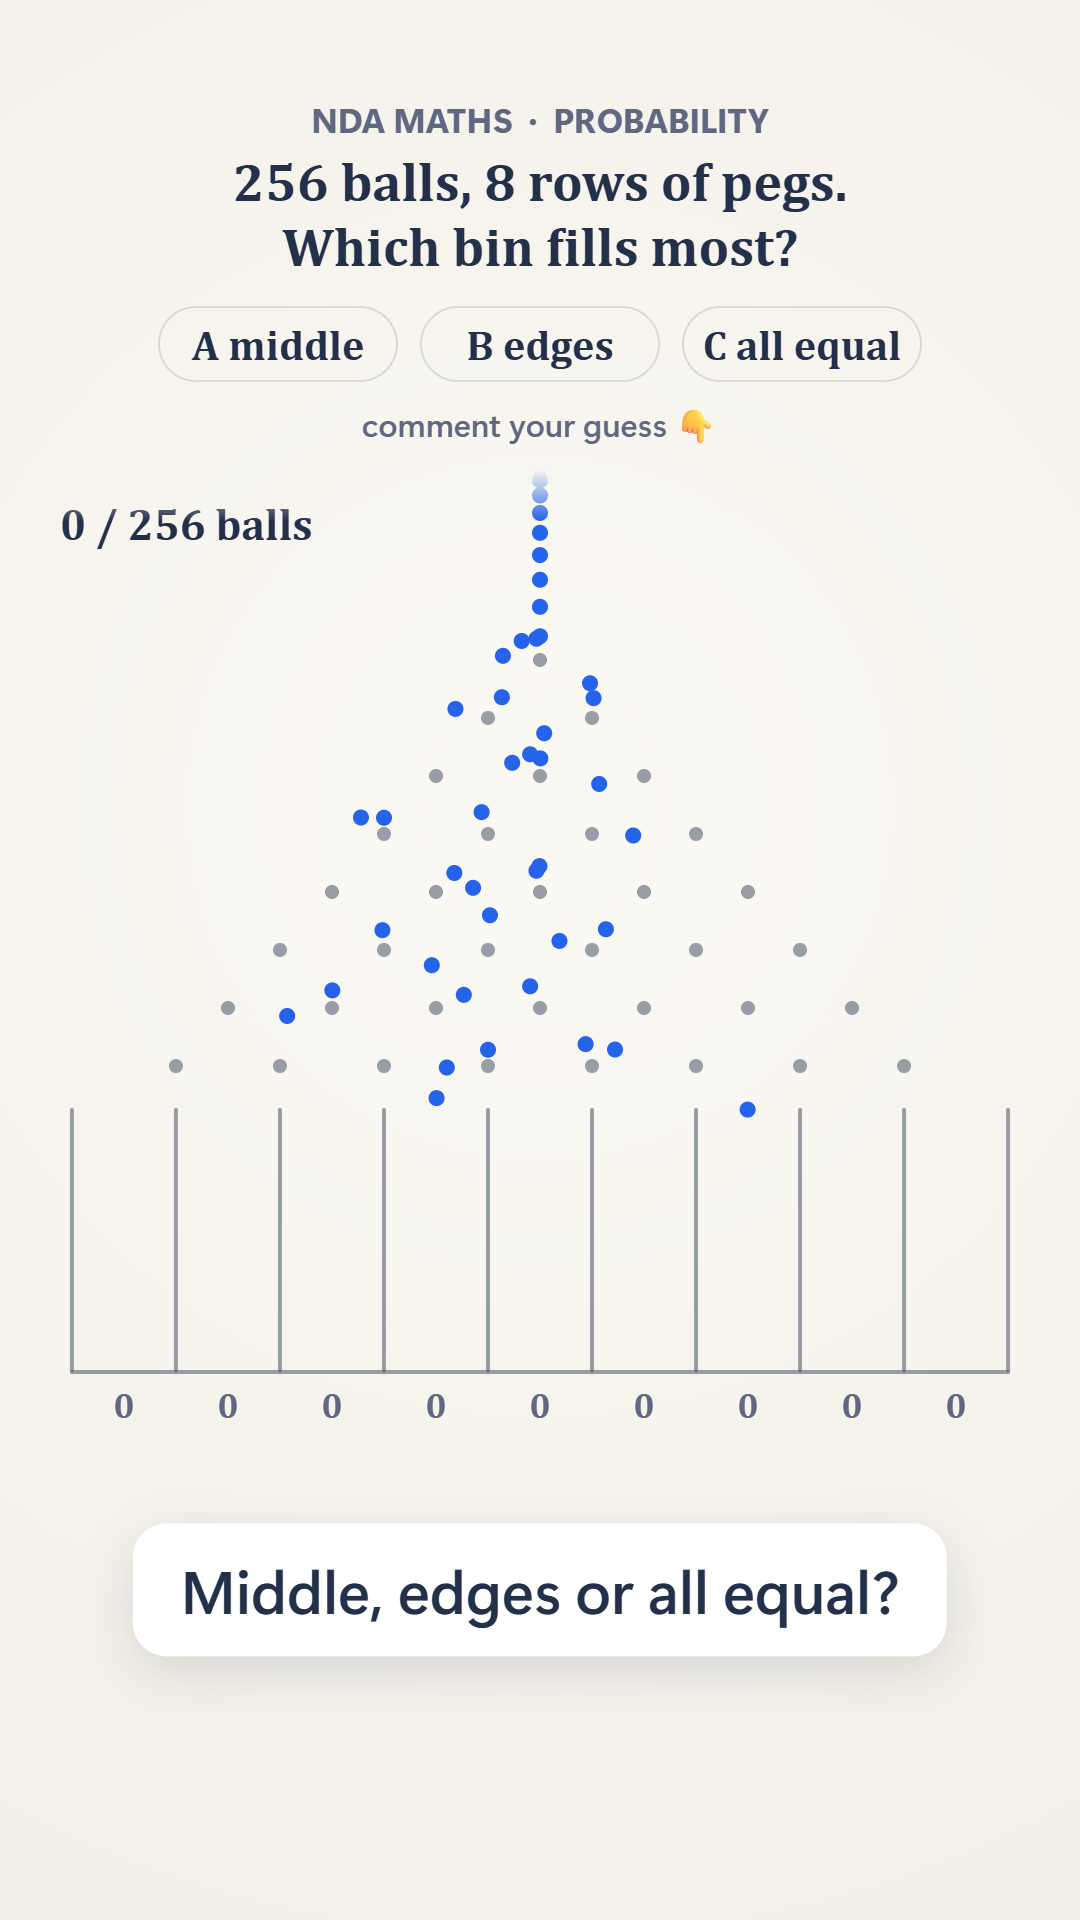
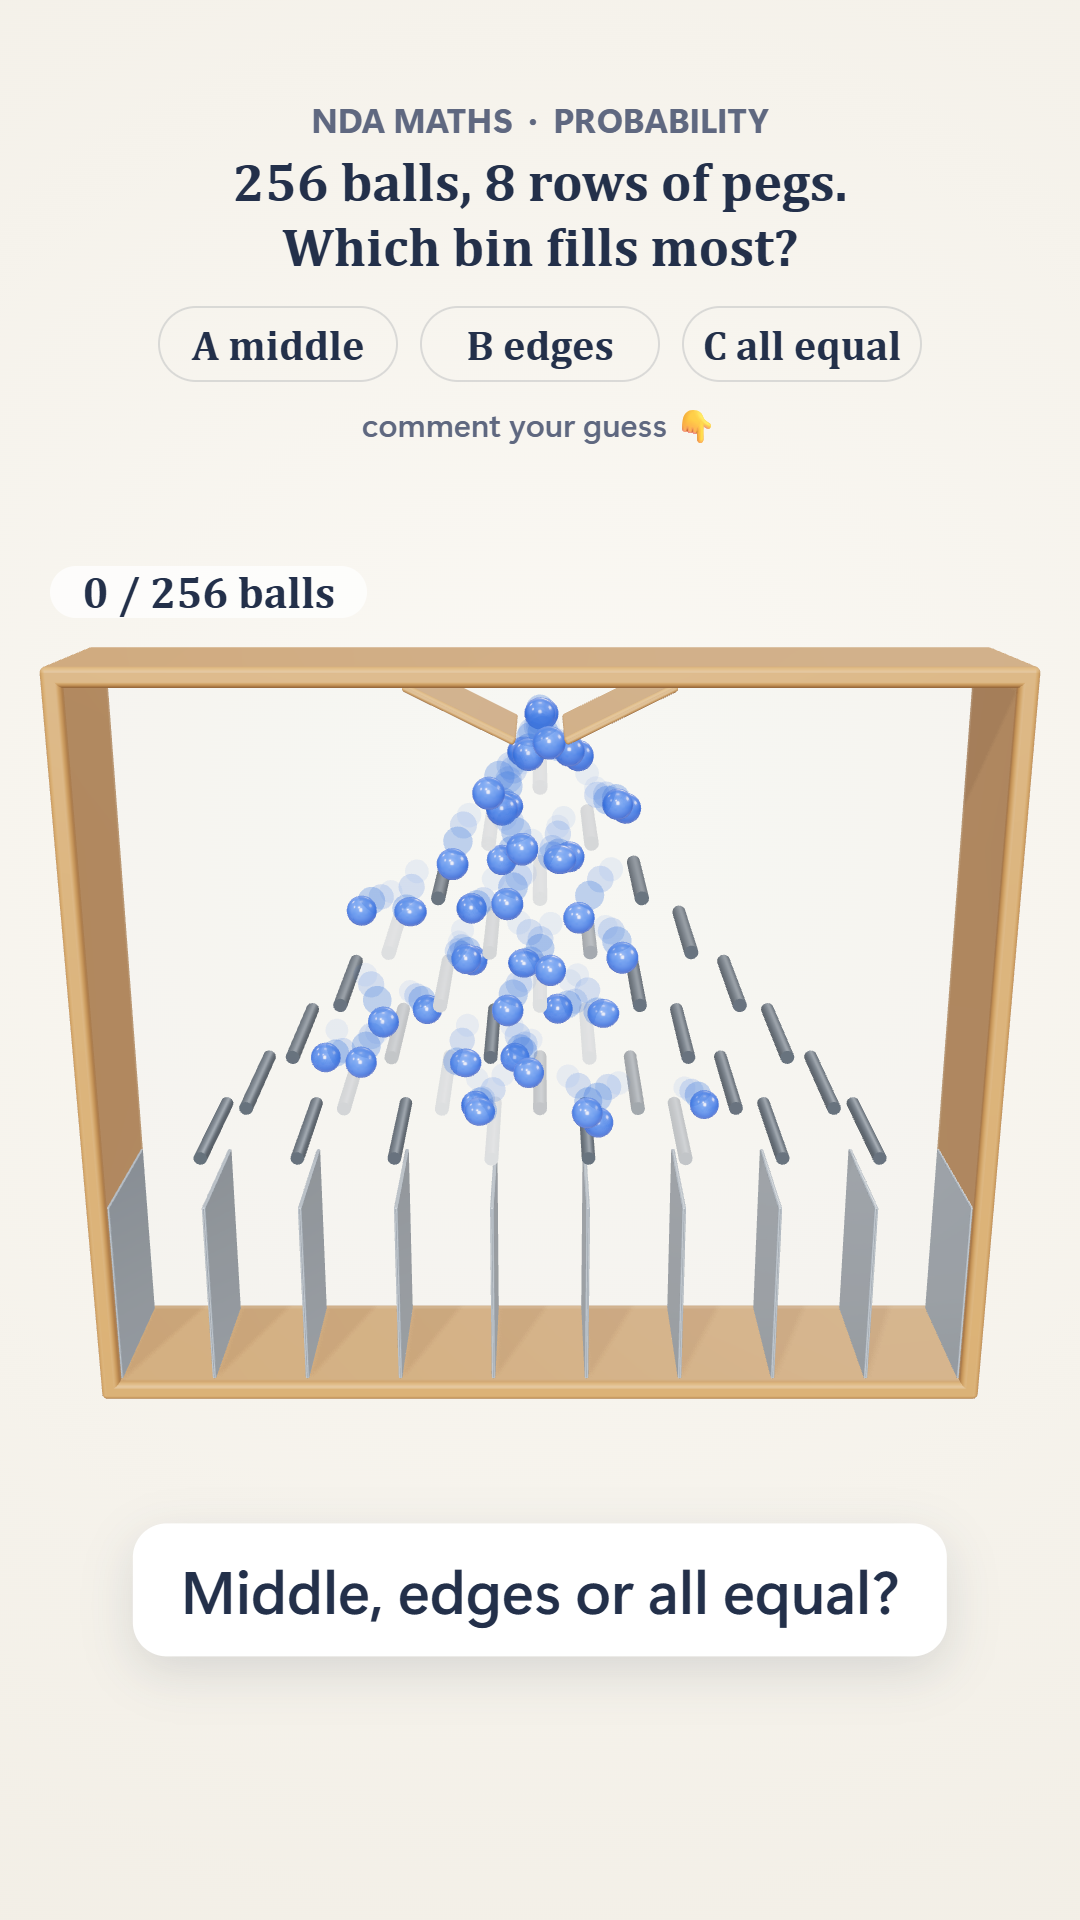
docs(reels): 025 v2 caption kit, cover, strip; runbook: scripted flight + physics piles

Changed region(s): [[0.0306, 0.25, 0.9778, 0.75], [0.0611, 0.25, 0.0917, 0.2812]]

diff --git a/reels/nda-maths-025-galton-board.md b/reels/nda-maths-025-galton-board.md
@@ -1,67 +1,69 @@
-# @lws.pune · 025, Why? #13: 256 balls, 8 rows of pegs. Which bin fills most? (the Galton board)
+# @lws.pune · 025, Why? #13: 256 balls, 8 rows of pegs. Which bin fills most? (a 3D Galton board)
 
 **Handle:** @lws.pune (project `pyq-vault`) · **Kind:** the first weekly **core Probability** reel (framework F32), made to
-F33 (watched happening, the formula last) · **Series:** Why? #13 · **Storyboard:**
-[nda-maths-025-galton-board.storyboard.md](nda-maths-025-galton-board.storyboard.md), reviewed by an independent agent
+F33 (watched happening, the formula last) · **Series:** Why? #13 · **Version:** v2, **3D** (the founder found the 2D v1
+"bland and 2D, hardly any movements", 2026-10-24; v1 was never posted) · **Storyboard:**
+[nda-maths-025-galton-board.storyboard.md](nda-maths-025-galton-board.storyboard.md), v2 reviewed by an independent agent
 before any code (F31; 3 blockers fixed) · **NDA link:** NDA 2018 (II) Maths Q107 (question id
-`7150efc9-ecdc-4b4b-ae0e-81040547bf98`), named in the caption · **Idea:** remake-backlog W18, no proven remake (proof
-"—"), topic score 6/10 · Made with `lwspune-framework.md` v1.9 · **Look:** white board, VIVID objects (F24: blue balls,
-orange path, green web; colour-blind checked) · **Music:** `bright` (023 synthwave before it) · **Length:** 22.8 s ·
-**Made in Remotion** (`remotion/src/Reel025.tsx`; board, balls, paths, camera, labels and sound in `src/lib/reel025.ts`,
-tests in `tests/reel025.test.ts`).
+`7150efc9-ecdc-4b4b-ae0e-81040547bf98`), named in the caption · **Idea:** remake-backlog W18, no proven remake, topic
+score 6/10 · Made with `lwspune-framework.md` v1.9 · **Look:** white board; a real 3D board (wood frame, steel pegs,
+glass both sides), glossy VIVID blue marbles, orange path and coin ball, green web (colour-blind checked) ·
+**Music:** `bright` · **Length:** 24.8 s · **Made in Remotion 3D** (`remotion/src/Reel025.tsx`; flights, camera, labels
+and sound in `src/lib/reel025.ts`; the bins' physics in `src/lib/reel025Physics.ts` (Rapier); tests in
+`tests/reel025.test.ts`).
 
 ## The maths (checked, and tested)
 
 - Each peg sends a ball left or right, 50–50. After 8 pegs a ball's bin is its number of rights, k = 0…8.
 - There are 2⁸ = 256 left/right paths, each equally likely (1 in 256). Bin k is reached by ⁸Cₖ of them:
-  1, 8, 28, 56, **70**, 56, 28, 8, 1 (counted by enumerating all 256, tested). So the middle bin gets the most → **A**.
+  1, 8, 28, 56, **70**, 56, 28, 8, 1 (enumerated, tested). So the middle bin gets the most → **A**.
 - Each peg's number of paths is ʳCⱼ, the sum of the two above it: Pascal's triangle (tested peg by peg).
-- 256 balls are expected to put ⁸Cₖ balls in bin k; the trap line "all equal" would be 256 ÷ 9 ≈ 28.4 a bin (tested).
-- **The run on screen:** a real simulation, every peg a fair 50–50 from a seeded generator (the same run in tests and
-  render). The seed is the first (counting from 1) whose run is typical: every bin within one standard deviation of ⁸Cₖ,
-  the middle tallest at the end and clearly tallest at the answer (rule in `reel025.ts`, checked in the tests). Seed 11:
-  **1 6 26 59 72 54 27 10 1**; every count on screen is this run's own.
+- 256 balls expect ⁸Cₖ balls in bin k; "all equal" would be 256 ÷ 9 ≈ 28.4 a bin (tested).
+- **The run on screen is honest.** Each ball's 8 choices come from a seeded fair generator; its flight between the pegs
+  it chose is a gravity arc (time-scaled, the same bounce for all, so no two balls in a lane overlap: tested every
+  frame); from its bin's mouth the **Rapier physics engine** piles it with the others by real collisions (every ball
+  ends at rest in the bin its choices give, two runs identical: tested). The seed is the first (from 1) whose run is
+  typical: every bin within one standard deviation of ⁸Cₖ, the middle tallest (rule in `reel025.ts`). Seed 11:
+  **1 6 26 59 72 54 27 10 1**. The glass columns and the "all equal" sheet use the heights those numbers of balls stand
+  at in this run's own piles (a straight-line fit, each real pile within 0.25 of it: tested).
 - **NDA 2018 (II) Q107:** "8 coins are tossed simultaneously. The probability of getting at least 6 heads is" → right =
-  heads, so it's the three right-hand bins: (28 + 8 + 1)/256 = **37/256 → (c)** (tested by enumeration). Matches the
-  bank's key.
-- **Traps:** C all equal (each peg is fair, so each bin must be: the reel draws that flat line and the piles beat it);
-  B edges (the edge bins need all 8 the same way: 1 path each).
+  heads, so the three right-hand bins: (28 + 8 + 1)/256 = **37/256 → (c)** (tested by enumeration). Matches the bank.
+- **Traps:** C all equal (each peg fair, so each bin fair: the sheet shows how far off that is); B edges (1 path each).
 
 ## On screen
 
 | Time | Picture | Text |
 |---|---|---|
-| 0 s → | ~43 blue balls already falling through the pegs; empty bins; counts 0 | **NDA MATHS · PROBABILITY · 256 balls, 8 rows of pegs. Which bin fills most?** A middle · B edges · C all equal · readout `0 / 256 balls` |
-| 0–5.0 s | the rain; balls stack in the bins, counts run | *Each peg: left or right, 50–50* |
-| 5.0 s | punch-in on the piles · **A middle** lights | |
-| 5.0–7.8 s | the rain ends; a dashed flat line at 28.4 a bin, tagged "C: all equal" | *Middle wins. But each peg is fair…* |
-| 8.0–9.8 s | the balls dim; one orange path, all lefts, to the edge bin | *Edge: only all-left gets there* · `edge: 1 path` |
-| 9.8–12.8 s | 70 green paths pour into the middle, one after another | *Middle: 70 different ways in* · `middle: 70 paths` |
-| 12.8–15.0 s | path numbers bloom on the pegs row by row; 1 8 28 56 70 56 28 8 1 in the bins | *Each peg adds the two above* · `256 paths in all` |
-| 15.0–17.4 s | green dashed expected piles drop onto the real ones | *Every path equally likely: 1 in 256* · `expected balls = paths` |
-| 17.4–19.8 s | one path again with H/T at each peg: 4 heads land in the middle | *Each peg is a coin toss* · `k heads: ⁸Cₖ ways` |
-| 19.8–22.8 s | end card | Most paths, most balls. **Follow for more** |
+| 0 s → | the board front-on, ~40 marbles already bouncing down the pegs, bins empty | **NDA MATHS · PROBABILITY · 256 balls, 8 rows of pegs. Which bin fills most?** A middle · B edges · C all equal · `0 / 256 balls` |
+| 0–3.0 s | a tilted 360° orbit of the board (glass both sides, so the back view shows the balls too); pegs flash and pulse when hit; balls leave short trails | *Each peg: left or right, 50–50* |
+| 3.0–5.0 s | front view: the rain thickens; heaps jostle up in the bins; counts under the bins | |
+| 5.0 s | punch-in on the bins · **A middle** lights | |
+| 5.0–9.0 s | the last marbles fall and settle | *Middle wins. But each peg is fair…* |
+| 9.1–10.6 s | a slate sheet slides in at the all-equal height, tagged "C: all equal" | *All equal would only reach here* |
+| 10.8–12.4 s | the marbles fade; one orange tube grows down the far-left pegs | *Edge: only all-left gets there* · `edge: 1 path` |
+| 12.4–15.2 s | 70 green tubes pour into the middle bin | *Middle: 70 different ways in* · `middle: 70 paths` |
+| 15.2–17.2 s | number pills pop up on the pegs row by row; 1 8 28 56 70 56 28 8 1 in the bins | *Paths to here = two above added* · `256 paths in all` |
+| 17.2–19.4 s | the marbles return; green glass columns rise to the expected heights | *Every path equally likely: 1 in 256* · `256 balls, 256 paths` |
+| 19.4–21.8 s | one orange marble bounces down H T H H T T H T ("H = right", "T = left"), the camera riding along; it lands in the middle | *Each peg is a coin toss* · `k heads: ⁸Cₖ ways` |
+| 21.8–24.8 s | end card | Most paths, most balls. **Follow for more** |
 
-**Cover:** 0.15 s (balls in the pegs, bins empty), "Middle, edges or all equal?".
+**Cover:** frame 0 (front-on, bins empty), "Middle, edges or all equal?".
 
-## Camera (F9) and sound (F14–F16)
+## Sound (F14–F16)
 
-- Slow push from frame 0 → **punch-in on the piles landing on the answer** (whoosh) → fast zoom out (whoosh) → slow push
-  into the web → fast zoom out for the numbers (whoosh) → gentle push for the coin path. Tested: the board stays in the
-  frame; no two labels overlap; the bin numbers stay clear of their piles.
-- A soft tap for every 8th ball landing, a knock on the answer, a click per peg on the lone path, a shimmer under the web
-  with a tap every 5th path, a click per row of numbers, a whump as the expected piles land, a click per peg on the coin
-  path. Mix: peak −3.3 dB, body −20.3 dB (check-video: 4 PASS).
+Peg pings (every 16th hit, pitch by row), landing taps, a knock on the answer, a tap as the sheet lands, a click per peg
+on the orange tube, a shimmer under the web with a tap per 5th tube, a click per row of numbers, a whump as the columns
+land, a click per peg on the coin ball and a knock as it lands; whooshes on the fast zooms.
 
 ## Files
 
 - `nda-maths-025-galton-board.mp4` · `nda-maths-025-galton-board-cover.png` · `nda-maths-025-strip.png`
-- Re-make: `cd remotion && npm test && npm run music:025 && npm run mix:025 && npm run render:025 && npm run cover:025`
+- Re-make: `cd remotion && npm test && npm run simulate:025 && npm run music:025 && npm run mix:025 && npm run render:025 && npm run cover:025`
 - No YouTube copy yet: the "Subscribe for more" end card (`EndCard platform`) is on the unmerged `feat/youtube-shorts`
   branch. Render `-yt.mp4` once that's merged.
 
 ## Before you post (founder)
 
-- [ ] Watch it once on the phone: the readout, counts and peg numbers readable
+- [ ] Watch it once on the phone: the counts, peg numbers and H/T letters readable
 - [ ] The answer (A middle) and Q107's working match this kit
 - [ ] Cover chosen in the upload screen

diff --git a/reels/visual-reel-workflow.md b/reels/visual-reel-workflow.md
@@ -244,6 +244,17 @@ Installed in `remotion/` only, pinned. First used in @pyqvault_ Physics #7 (`PvP
 | `@dimforge/rapier3d-compat` (Rapier physics, Apache 2.0) | real collisions: molecules bouncing off each other, balls, dice, a piston hit by particles. Demo: `remotion/src/DemoPhysics.tsx` (`review/realism/4 …`) | Remotion draws frames out of order: simulate **once**, fixed step (1/120 s), in `src/lib/` (`demoPhysics.ts`) → `node tools/simulate.ts` writes `public/*.json` → the reel only plays it back. Test that two runs are identical. A fast ball can sink ~0.02 into a wall for a frame. It's for how the motion **looks**: any number the reel states (pressure, speed, count) still comes from the re-derived law (F10), never from the engine. |
 | `three.quarks` (particles, MIT) | fire, sparks, smoke, steam, heat haze. Demo: `remotion/src/DemoParticles.tsx` (`review/realism/5 …`) | It moves by clock time and `Math.random`: rebuild and replay from 0 every frame with `withSeed` (`demoParticles.ts`), plus one throwaway build at module load (its first build draws extra random numbers). Emitters must sit in a `Scene`. Additive glow vanishes on the white board: **dark (lab) only**. Forces are in the emitter's own axes (turned to point up: down = local −z). |
 
+**Scripted flight + physics piles** (reel 025 v2, a 3D Galton board, 2026-10-24): when a count on screen must follow an
+honest rule (fair 50–50 choices) but the motion should look physical, script the part the rule decides (gravity arcs
+between the pegs each ball chose: `ballAt` in `src/lib/reel025.ts`) and hand each ball to Rapier only where the rule no
+longer matters (the bins: `reel025Physics.ts`, with the speed of its last hop), so the piles form by real collisions.
+Learned on the way: (1) scripted balls pass through each other: give them lanes front to back and one bounce for all, so
+each stays one hop behind the ball before it in its lane, and test the gap every frame; (2) from a front camera the
+lanes' depth is invisible, so size the balls for the pile heights you need (025: r 0.12 gave heaps too low to show the
+answer; r 0.16 fixed it); (3) a solid back panel is a flat grey slab in the opening orbit (F22): make the back glass too;
+(4) a lone ball on a floor rolls for ever: give the balls linear and angular damping; (5) `useLayoutEffect`, never
+`useEffect`, for instanced meshes (in 025 every marble was drawn at the origin).
+
 **Not used, and why** (checked 2026-10-20): `@react-three/drei` (pulls in 21 packages incl. face tracking and a GPU check
 that downloads data; three.js's own `TubeGeometry` / `Line2` cover trails and thick lines), tegaki (handwriting only in
 its 13 bundled fonts, not Kalam), Remotion's `@remotion/effects` (needs `HtmlInCanvas`, behind a Chrome flag), matter-js

diff --git a/reels/learnings.md b/reels/learnings.md
@@ -85,4 +85,4 @@ so don't treat it as the reels being shared on their own merit.
 | 021 Why? #9, fold y = 2ˣ over y = x: you get log₂x; 2³ = 8 flips to log₂8 = 3; the y ≤ 0 strip folds onto x ≤ 0 (NDA maths concept; NDA 2024 (I) Q27 in the caption; Remotion 2D, predict-first, 16.6 s; remake of @mathsy.uk 46×; topic score 5/10; first reel with an F31 storyboard review: 5 blockers fixed before code, 3 faults caught after (by the overlap test and the stills sheet)) | white | cinematic | L38 L39 L40 L47 L63 | | | | | | | |
 | 022 Why? #10, completing the square with tiles: the missing corner is 9; x² + 6x ≥ −9 (NDA maths concept; NDA 2026 (I) Q42 in the caption; Remotion 2D, predict-first, a dot rides the parabola with a live readout, 18.6 s; remake of @codematrixvishal 40×; topic score 5/10; F31 review: 3 blockers fixed before code; 7 faults caught after (3 by the overlap test, 3 on the stills sheet, 1 on the cover)) | white | lofi | L38 L39 L40 L47 L63 | | | | | | | |
 | 023 Why? #11, four derivatives of sin x go round to sin x; y″ = −y; (sin 2x)″ = −4 sin 2x (NDA maths concept; NDA 2019 (I) Q83 in the caption; Remotion 2D, predict-first, wave + dial + pill, 17 s; remake of @mathsy.uk 66×; topic score 6/10; F31 review: 4 blockers fixed before code; 1 layout fault caught after (stills/strip) + a quiet music style swapped) | white | synthwave | L38 L39 L40 L47 L63 | | | | | | | |
-| 025 Why? #13 (Probability core, F32–F33), Galton board: 256 fair balls through 8 rows of pegs, which bin fills most? The middle (A); one path to the edge vs 70 into the middle, Pascal's numbers, the expected piles on the real ones, each peg a coin toss (NDA 2018 (II) Q107 in the caption; Remotion 2D, predict-first, a real seeded run, 22.8 s; no proven remake; topic score 6/10; F31 review: 3 blockers fixed before code; 2 faults caught after, on the stills sheet) | white | bright | L68 L58 L38 L39 L40 L47 L63 | | | | | | | |
+| 025 Why? #13 (Probability core, F32–F33), Galton board: 256 fair balls through 8 rows of pegs, which bin fills most? The middle (A); one path to the edge vs 70 into the middle, Pascal's numbers, the expected piles on the real ones, each peg a coin toss (NDA 2018 (II) Q107 in the caption; **v2 in Remotion 3D** after the founder found the 2D v1 "bland and 2D, hardly any movements" (v1 never posted): a tilted orbit, gravity bounces off flashing pegs, Rapier physics piles, a ride-along camera; a real seeded run, 24.8 s; no proven remake; topic score 6/10; F31 reviews: v1 3 + v2 3 blockers fixed before code; v2 faults after: marbles not drawn (instanced update in useEffect), a flat grey back view, piles too low to show the answer) | white | bright | L68 L58 L38 L39 L40 L47 L63 | | | | | | | |
